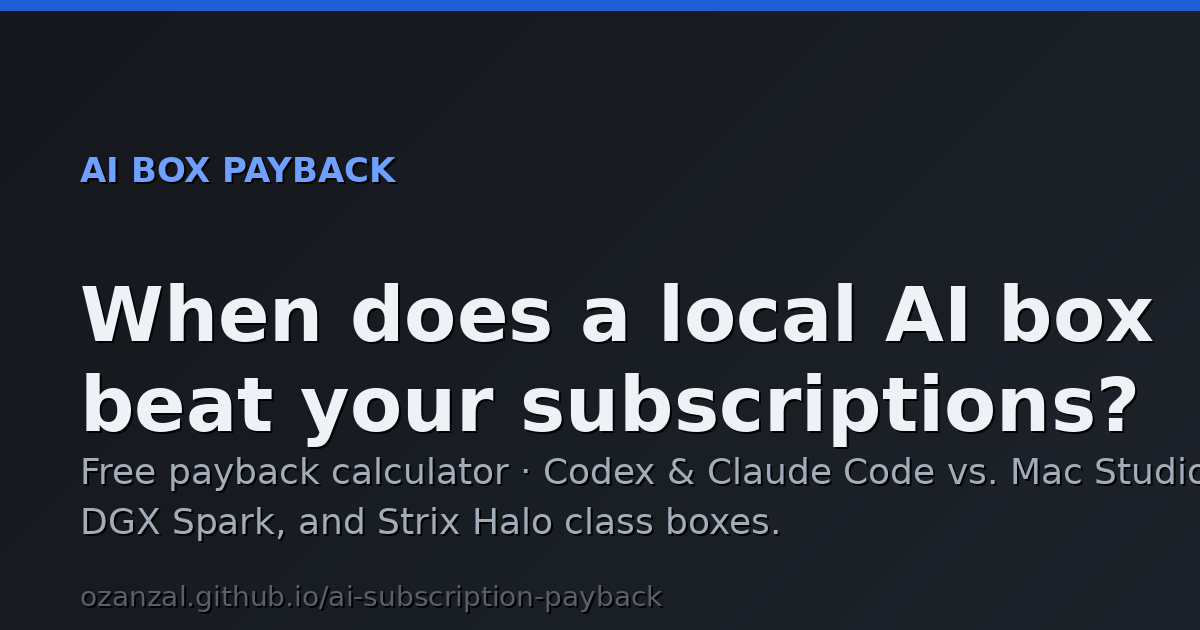
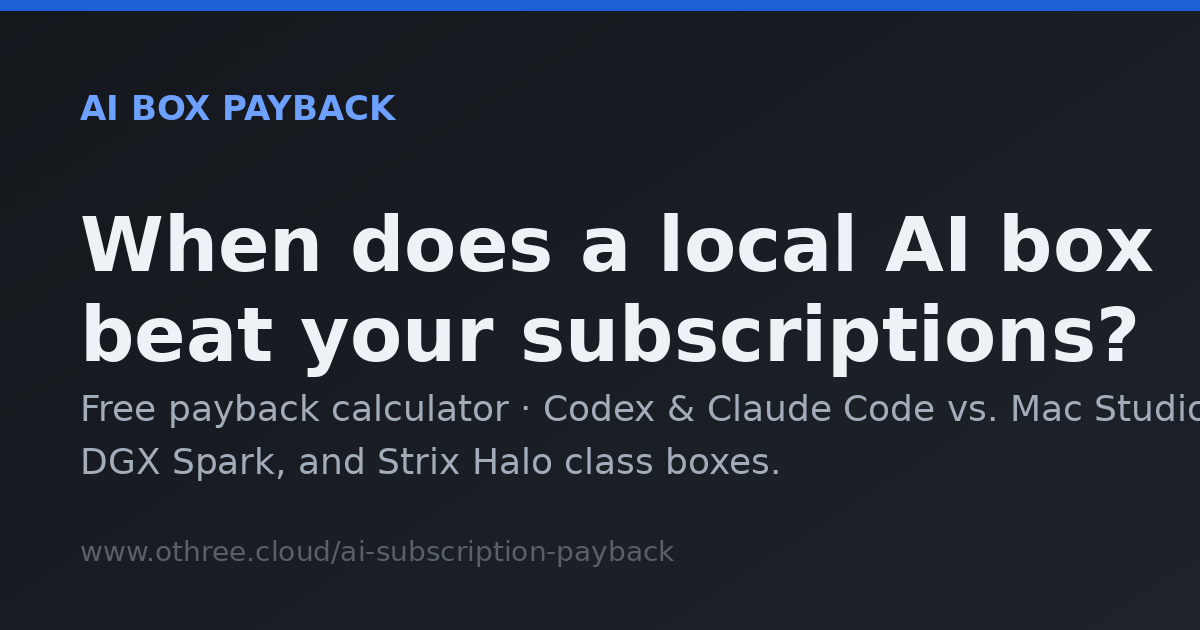
fix(seo): use custom domain for launch metadata

diff --git a/test/seo-metadata.test.js b/test/seo-metadata.test.js
@@ -18,7 +18,7 @@ const read = (rel) => readFileSync(fileURLToPath(new URL(rel, root)), "utf8");
 const exists = (rel) => existsSync(fileURLToPath(new URL(rel, root)));
 
 const html = read("index.html");
-const SITE_URL = "https://o3-cloud.github.io/ai-subscription-payback/";
+const SITE_URL = "https://www.othree.cloud/ai-subscription-payback/";
 
 /** Value of the first <meta> matching an attr=value selector, or "". */
 const metaContent = (attr, value) =>
@@ -57,10 +57,10 @@ test("Open Graph card is complete", () => {
     );
   }
   assert.equal(metaContent("property", "og:url"), SITE_URL);
-  assert.match(
+  assert.equal(
     metaContent("property", "og:image"),
-    /^https:\/\/.+\/assets\/img\/og-card\.png$/,
-    "og:image is an absolute URL to the card asset"
+    new URL("assets/img/og-card.png", SITE_URL).href,
+    "og:image uses the production site URL"
   );
 });
 
@@ -69,6 +69,11 @@ test("Twitter card carries its own title, description, and image", () => {
   for (const name of ["twitter:title", "twitter:description", "twitter:image", "twitter:image:alt"]) {
     assert.ok(metaContent("name", name).length > 0, `missing or empty ${name}`);
   }
+  assert.equal(
+    metaContent("name", "twitter:image"),
+    new URL("assets/img/og-card.png", SITE_URL).href,
+    "twitter:image uses the production site URL"
+  );
 });
 
 test("the social-card asset exists", () => {

diff --git a/index.html b/index.html
@@ -17,7 +17,7 @@
     name="keywords"
     content="AI coding subscription payback, local AI inference box, Mac Studio AI build, DGX Spark price, Strix Halo AI workstation, Codex vs local AI box cost, Claude Code subscription payback"
   />
-  <link rel="canonical" href="https://o3-cloud.github.io/ai-subscription-payback/" />
+  <link rel="canonical" href="https://www.othree.cloud/ai-subscription-payback/" />
   <link rel="sitemap" type="application/xml" href="./sitemap.xml" />
 
   <!-- Open Graph / social sharing -->
@@ -29,8 +29,8 @@
     property="og:description"
     content="Model the break-even point of a financed local AI box versus AI coding subscriptions."
   />
-  <meta property="og:url" content="https://o3-cloud.github.io/ai-subscription-payback/" />
-  <meta property="og:image" content="https://o3-cloud.github.io/ai-subscription-payback/assets/img/og-card.png" />
+  <meta property="og:url" content="https://www.othree.cloud/ai-subscription-payback/" />
+  <meta property="og:image" content="https://www.othree.cloud/ai-subscription-payback/assets/img/og-card.png" />
   <meta property="og:image:type" content="image/png" />
   <meta property="og:image:width" content="1200" />
   <meta property="og:image:height" content="630" />
@@ -41,7 +41,7 @@
     name="twitter:description"
     content="Free calculator: how long until a local AI box is cheaper than paying for Codex and Claude Code?"
   />
-  <meta name="twitter:image" content="https://o3-cloud.github.io/ai-subscription-payback/assets/img/og-card.png" />
+  <meta name="twitter:image" content="https://www.othree.cloud/ai-subscription-payback/assets/img/og-card.png" />
   <meta
     name="twitter:image:alt"
     content="AI Box Payback — calculate when a local AI inference box beats your AI coding subscriptions."
@@ -56,7 +56,7 @@
       {
         "@type": "WebApplication",
         "name": "AI Box Payback",
-        "url": "https://o3-cloud.github.io/ai-subscription-payback/",
+        "url": "https://www.othree.cloud/ai-subscription-payback/",
         "applicationCategory": "FinanceApplication",
         "operatingSystem": "Any (modern web browser)",
         "browserRequirements": "Requires JavaScript",
@@ -102,7 +102,7 @@
   </script>
 
   <link rel="stylesheet" href="./assets/css/styles.css" />
-  <script defer data-domain="o3-cloud.github.io" src="https://plausible.io/js/script.manual.js"></script>
+  <script defer data-domain="www.othree.cloud" src="https://plausible.io/js/script.manual.js"></script>
   <script type="module" src="./assets/js/main.js"></script>
 </head>
 <body>

diff --git a/test/deployment.test.js b/test/deployment.test.js
@@ -18,7 +18,7 @@ const read = (rel) => readFileSync(fileURLToPath(new URL(rel, root)), "utf8");
 const exists = (rel) => existsSync(fileURLToPath(new URL(rel, root)));
 
 // Must match the canonical URL the SEO surface (sitemap, robots, head) uses.
-const SITE_URL = "https://o3-cloud.github.io/ai-subscription-payback/";
+const SITE_URL = "https://www.othree.cloud/ai-subscription-payback/";
 const WORKFLOW = ".github/workflows/deploy.yml";
 
 test("a GitHub Pages deployment workflow exists", () => {

diff --git a/docs/launch-copy.md b/docs/launch-copy.md
@@ -8,7 +8,7 @@ mention the calculator is free, and point people at the main page URL.
 > How long until a local AI box beats your coding subscriptions?
 > I built a free payback calculator for Codex, Claude Code, and local hardware
 > like Mac Studio, DGX Spark, and Strix Halo systems.
-> https://o3-cloud.github.io/ai-subscription-payback/
+> https://www.othree.cloud/ai-subscription-payback/
 
 ## LinkedIn
 
@@ -22,7 +22,7 @@ mention the calculator is free, and point people at the main page URL.
 > The site is transparent about pricing sources, affiliate relationships, and the
 > assumptions behind the math.
 >
-> https://o3-cloud.github.io/ai-subscription-payback/
+> https://www.othree.cloud/ai-subscription-payback/
 
 ## Hacker News / community intro
 

diff --git a/README.md b/README.md
@@ -34,7 +34,7 @@ npm test
 
 The site is hosted on **GitHub Pages** at:
 
-**https://o3-cloud.github.io/ai-subscription-payback/**
+**https://www.othree.cloud/ai-subscription-payback/**
 
 Deployment is automated by the [`Deploy to GitHub Pages`](.github/workflows/deploy.yml)
 GitHub Actions workflow. It runs on every push to `main` (and can be triggered

diff --git a/docs/bdd/seo-and-metadata.md b/docs/bdd/seo-and-metadata.md
@@ -35,6 +35,8 @@ Scenario: The calculator is described as structured data
 - The launch social card lives at `assets/img/og-card.png` for broad social
   platform compatibility. The editable SVG source is kept alongside it at
   `assets/img/og-card.svg`.
+- The canonical/share URL for the launch surface is the production custom domain:
+  `https://www.othree.cloud/ai-subscription-payback/`.
 - FAQ structured-data answers intentionally mirror the visible Methodology & FAQ
   copy, per search-engine rich-result guidelines that on-page and structured
   answers must match.